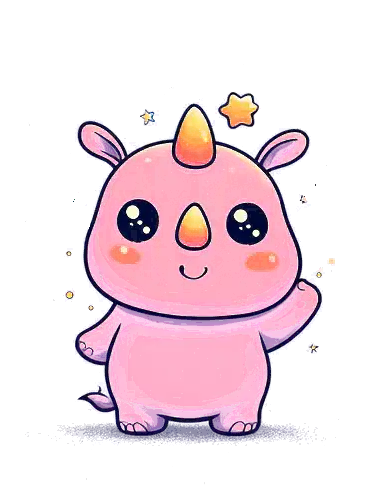
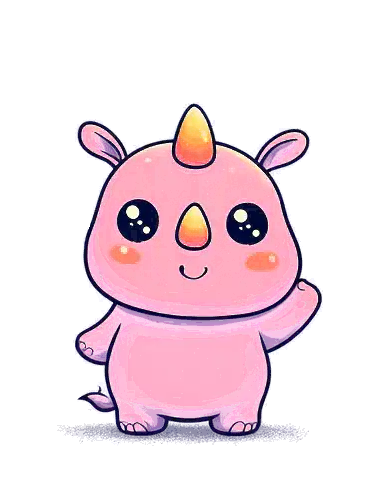
Remove the stars baked into Rosie's wave loop.
Every frame of the hero WebP, the reduced-motion still, and the PNG fallback drops the star by her horn and the small sparkles that moved with her. The slow-floating background stars are untouched.

diff --git a/docs/art-requests.md b/docs/art-requests.md
@@ -14,7 +14,9 @@ The home hero is one `<picture>`. `mascot.hero.webp` plays when the visitor allo
 
 Those three files are the approved wave loop. The source movie is `assets/mascot/source/rosie-wave-loop.mp4` (4 seconds, 720×720, 24 fps). It was generated from the approved Midjourney Rosie image, `assets/mascot/source/rosie-ryno-original.png`. In the loop she waves, happy-squints, hops, and comes back to the start pose. The flat lavender field was removed, so the WebP has a real transparent background. The site version keeps every other frame (12 fps, 49 frames, 84 ms each, 386×500, looping). The page does not play the movie's audio. `rosie-wave.png` and `rosie-wave-still.webp` are the first frame.
 
-The keyed frames had a blurry green smudge beside both ears: a larger one just to the viewer's right of her head, level with the top of her eyes, and a smaller one on the viewer's left. They were half-transparent keying leftovers, and they sat on every frame. Those pixels are now transparent in all 49 frames of `rosie-wave.webp`, and in the still WebP and PNG. The crisp star by her horn, her outline, the contact shadow, the timing, and the loop were left as they were. The source movie was not edited.
+The keyed frames had a blurry green smudge beside both ears: a larger one just to the viewer's right of her head, level with the top of her eyes, and a smaller one on the viewer's left. They were half-transparent keying leftovers, and they sat on every frame. Those pixels are now transparent in all 49 frames of `rosie-wave.webp`, and in the still WebP and PNG. Her outline, the contact shadow, the timing, and the loop were left as they were. The source movie was not edited.
+
+The stars and sparkles that were baked into the loop (the big star by her horn, the small four-point sparkles, and the gold dots that moved with her) are now removed from all 49 frames of `rosie-wave.webp` and from the still WebP and PNG. Where the little sparkle sat on the top of her head during the hop, her outline was redrawn along its own curve. Rosie's own frames were not regenerated, so her wave, squint, and hop are the same. The separate slow-floating SVG stars around the hero (`.spark` in `site.css`) are unchanged.
 
 The older full-body cut-out, `rosie-full`, is still the picture on About, Support, and the 404. The eye and body cut layers in `assets/mascot/source/` (`rosie-body-no-eyes.png`, `rosie-eyes.png`) are not used. Do not build a CSS blink or a separate arm on top of them.
 
